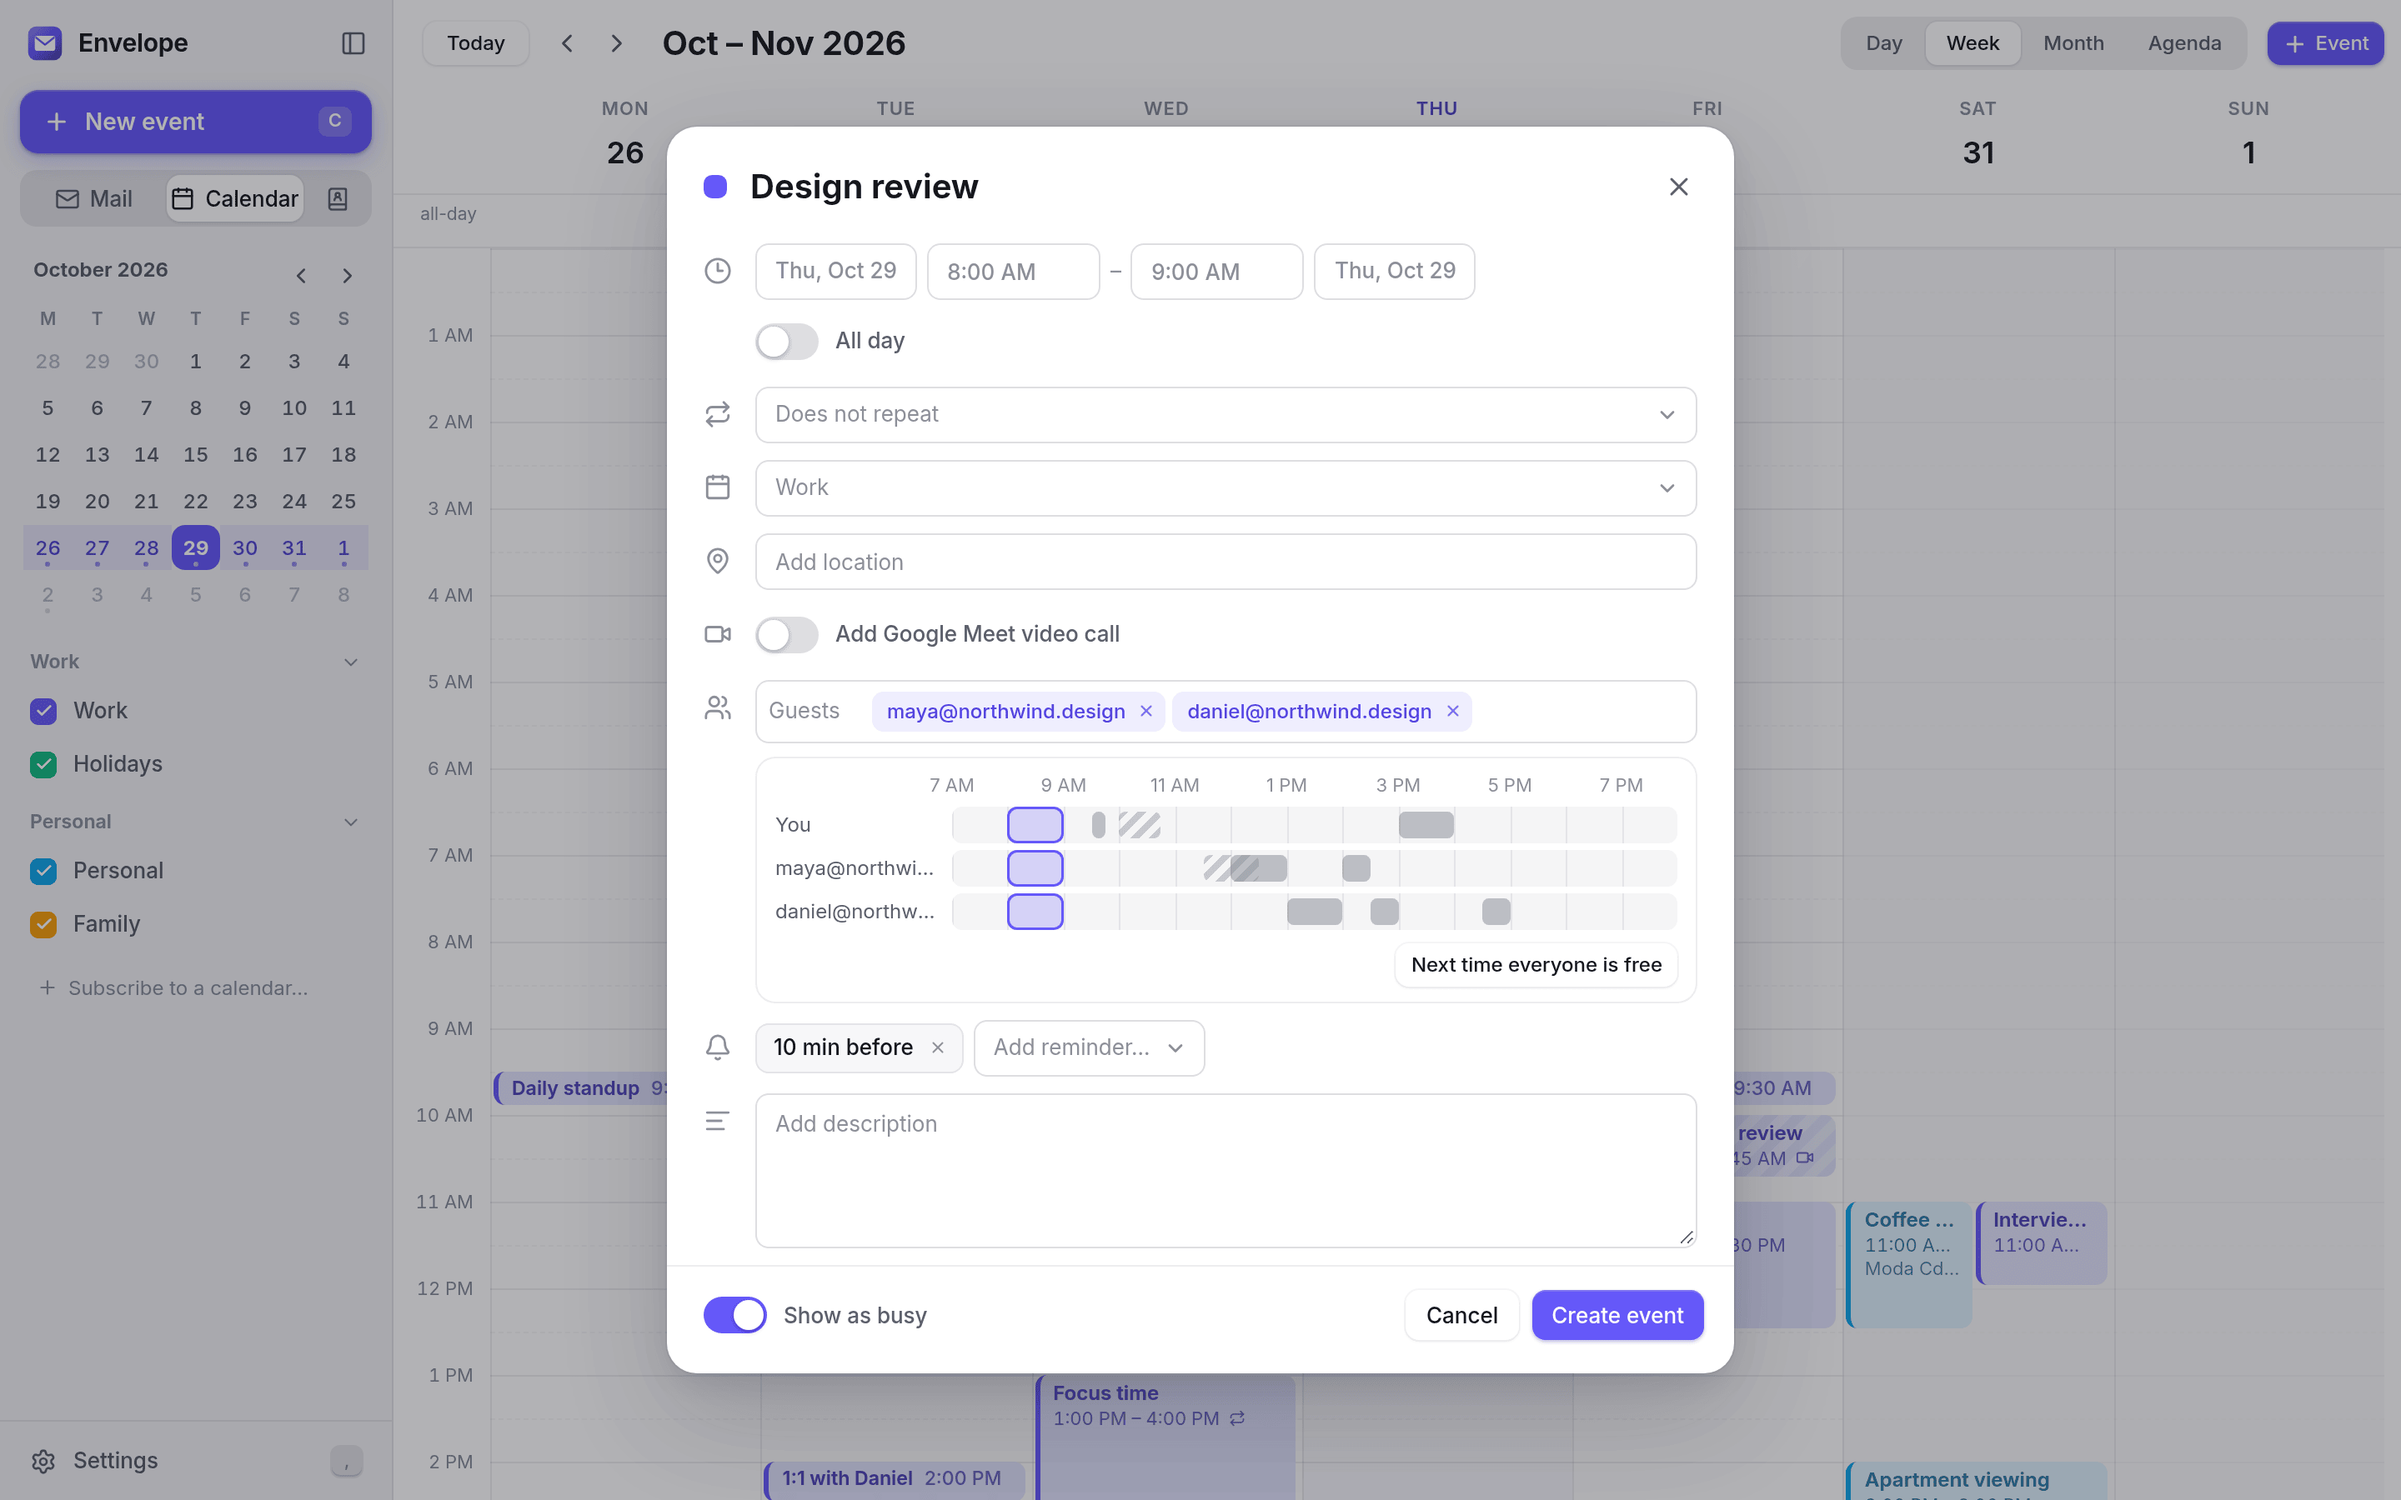
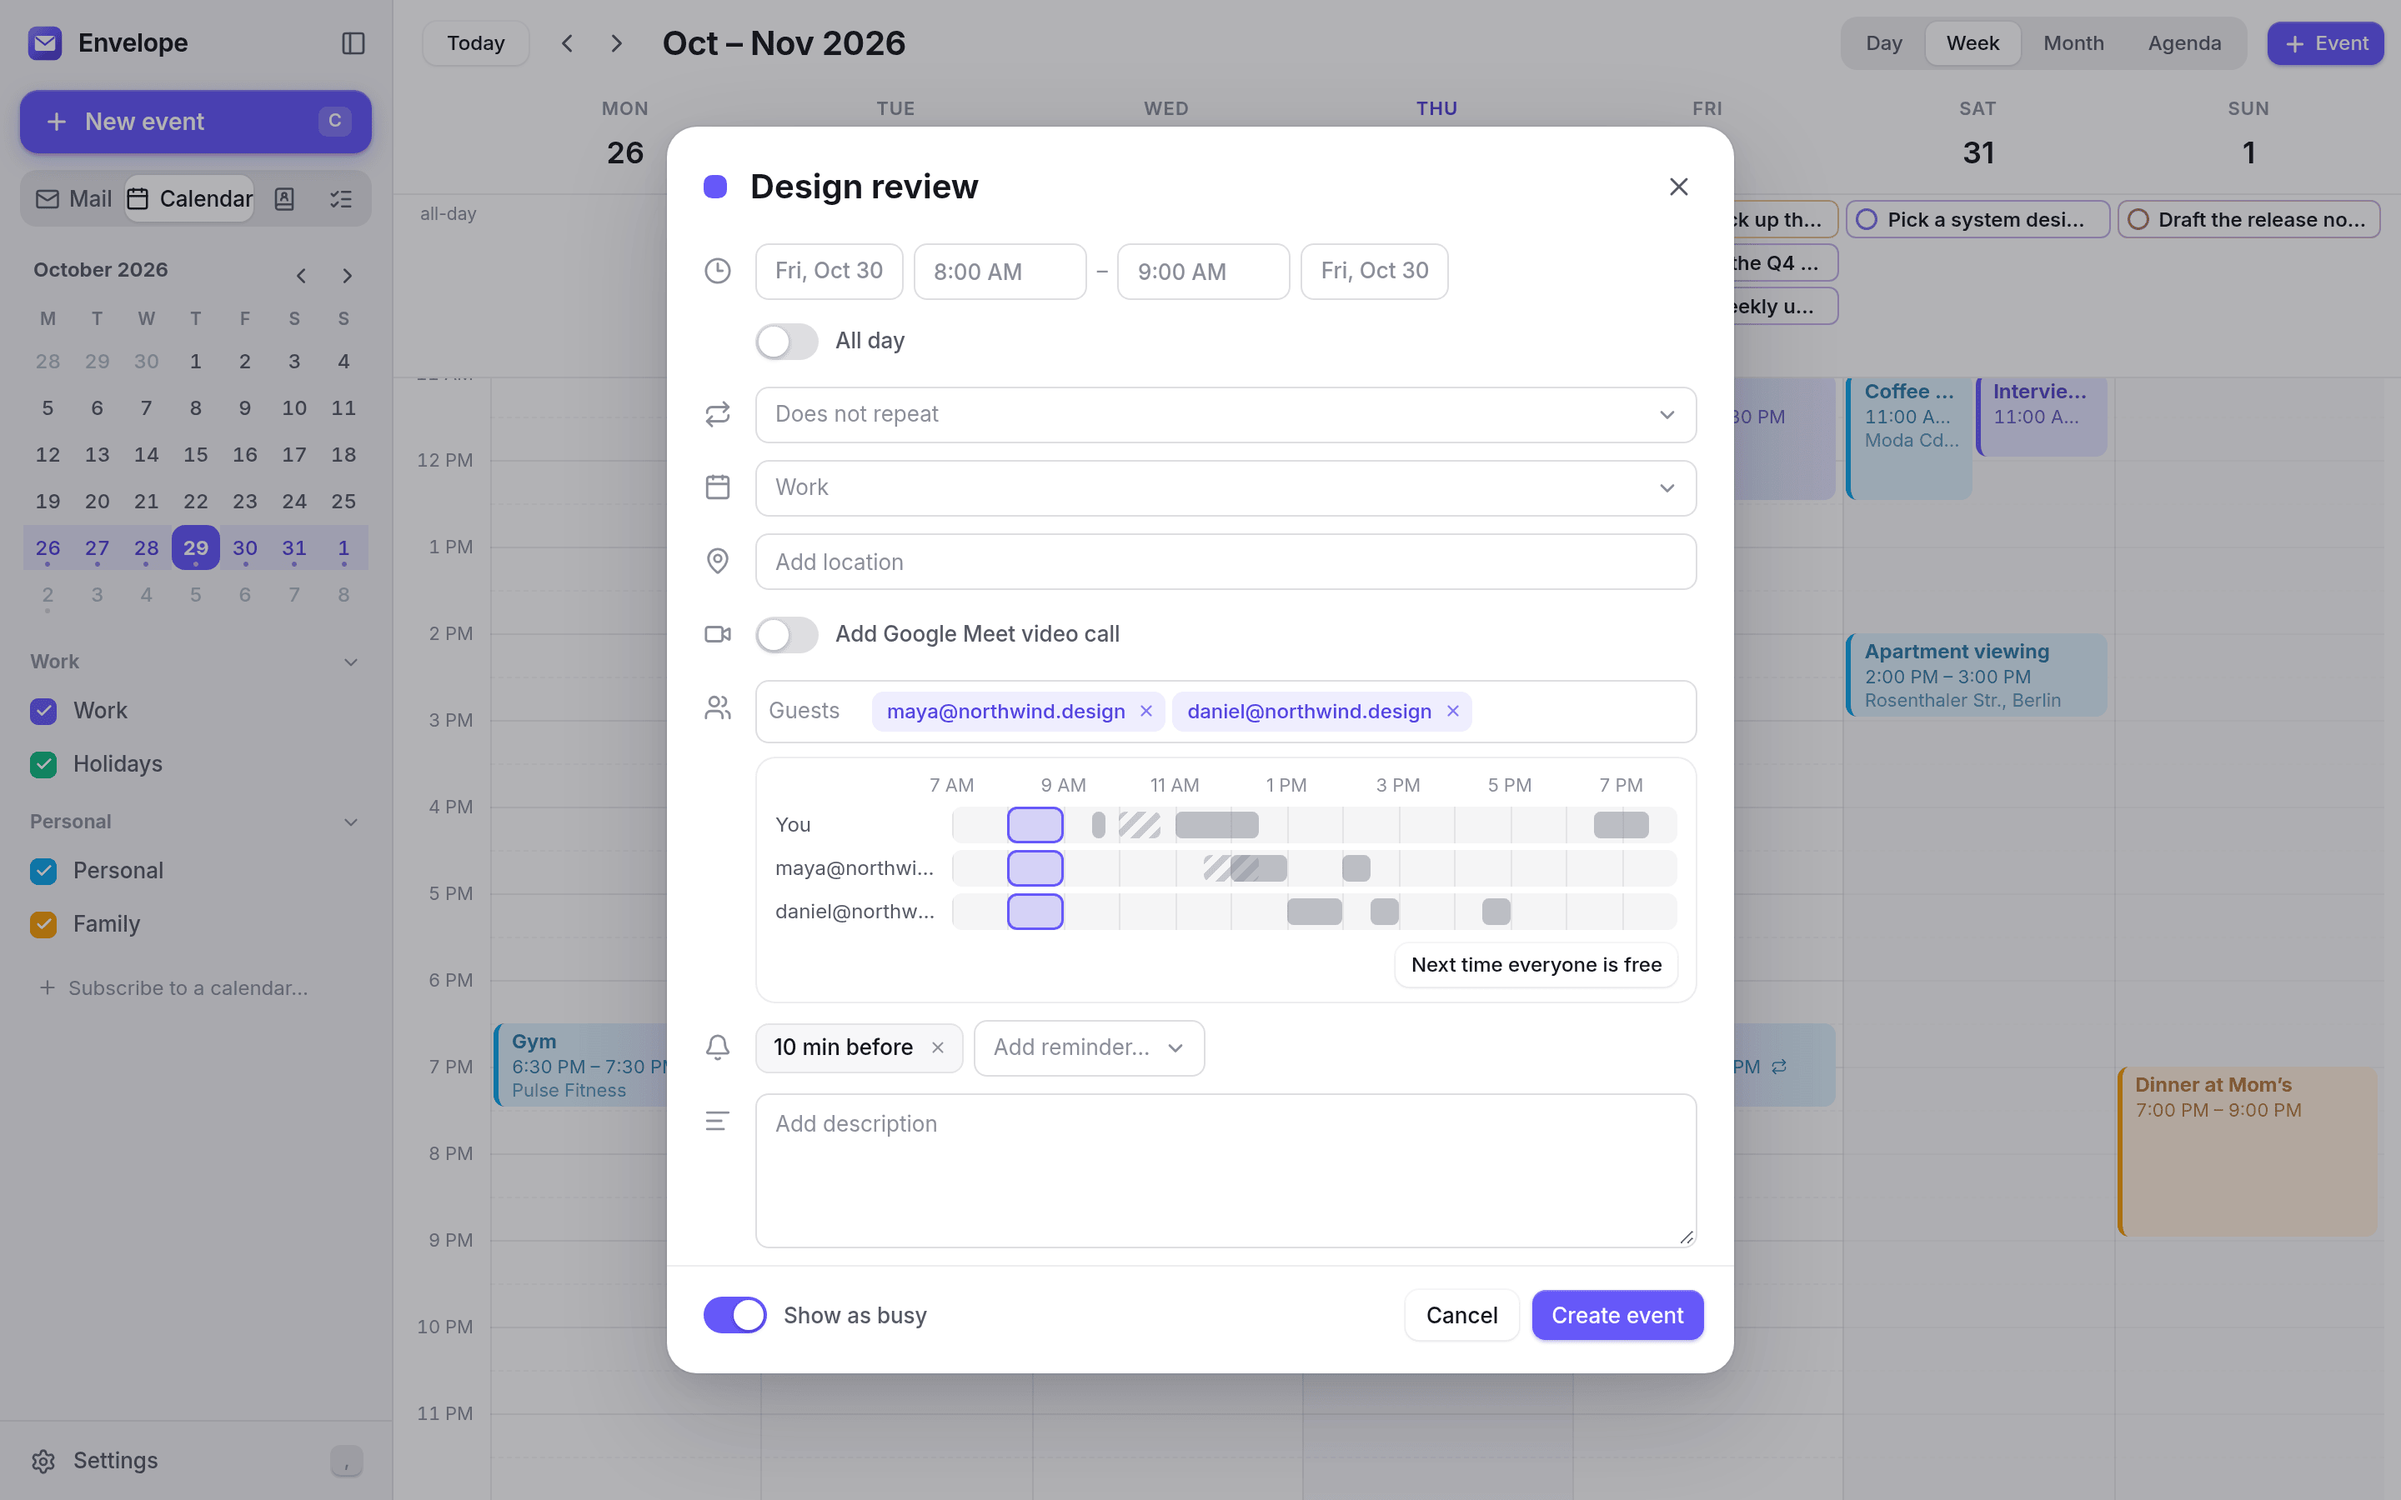
Describe tasks and refresh the screenshots

diff --git a/README.md b/README.md
@@ -6,7 +6,7 @@
 
 **A fast, beautiful mail and calendar client for Linux.**
 
-Gmail, Microsoft 365, Outlook.com, Exchange, iCloud, Yahoo, Fastmail and any IMAP server — with a real calendar,<br>
+Gmail, Microsoft 365, Outlook.com, Exchange, iCloud, Yahoo, Fastmail and any IMAP server — with a real calendar, tasks,<br>
 instant offline search, a keyboard-first workflow and optional AI that runs on the provider *you* choose.
 
 [![CI](https://github.com/burakgon/envelope/actions/workflows/ci.yml/badge.svg)](https://github.com/burakgon/envelope/actions/workflows/ci.yml)
@@ -32,6 +32,7 @@ Desktop mail on Linux has long meant choosing between powerful-but-dated and pre
 - **Instant.** Lists are read from a local database with precomputed thread aggregates, so opening a folder, switching tabs and searching take milliseconds — online or offline. Every action is optimistic and queued, so the UI never waits for the server.
 - **Keyboard-first.** Gmail-style shortcuts (`j`/`k`, `e`, `#`, `r`, `c`, `g i` …) and a command palette (`Ctrl K`) that can do everything the mouse can.
 - **A real calendar.** Day, week, month and agenda views, drag to create, move and resize, recurring events with "this / following / all" edits, invitations with RSVP and conflict detection, a scheduling assistant, subscriptions and reminders — synced both ways with CalDAV, Google Calendar, Microsoft 365 and Exchange.
+- **Tasks where your mail is.** Turn a message into a task with one key, type "call Maya tomorrow 3pm !" and get a due time and a star, and see what's due in your calendar — synced with Google Tasks, Microsoft To Do, Exchange and CalDAV.
 - **Private by design.** No telemetry, no proxy servers, no account with us. Your mail goes straight from your provider to your disk. Remote images and trackers are blocked until you allow them, messages render in a locked-down sandbox, and OpenPGP encryption sets itself up with Autocrypt.
 - **AI you control.** Summaries, smart replies, writing help, translation and "ask your inbox" — using OpenRouter, OpenAI, Anthropic, Google Gemini, Groq, Mistral, a local Ollama or LM Studio model, or any OpenAI-compatible endpoint. Off until you turn it on, and your API keys live in the system keyring.
 
@@ -45,6 +46,10 @@ Desktop mail on Linux has long meant choosing between powerful-but-dated and pre
 <tr>
 <td width="50%"><img src="docs/screenshots/calendar-week.png" alt="Week view of the calendar"></td>
 <td width="50%"><img src="docs/screenshots/calendar-month.png" alt="Month view of the calendar in dark mode"></td>
+</tr>
+<tr>
+<td width="50%"><img src="docs/screenshots/tasks.png" alt="Tasks due today, with one open beside them: its subtasks and the e-mail it was made from"></td>
+<td width="50%"><img src="docs/screenshots/tasks-upcoming.png" alt="Upcoming tasks in dark mode, with quick add turning &quot;friday 10am !&quot; into a due time and a star"></td>
 </tr>
 <tr>
 <td width="50%"><img src="docs/screenshots/scheduling.png" alt="The event editor showing when the guests are busy, with a button for the next time everyone is free"></td>
@@ -89,6 +94,13 @@ Desktop mail on Linux has long meant choosing between powerful-but-dated and pre
 - Invitations in mail (iTIP) become cards with **Yes / Maybe / No**, a conflict check against your calendar and replies sent to the organizer.
 - Two-way sync: **CalDAV** (iCloud, Fastmail, Nextcloud, Radicale, …), **Google Calendar**, **Microsoft 365 / Outlook.com** and **on-premises Exchange**.
 - **Subscribe to published calendars** by URL (`webcal:` links included): holidays, sports, school or team calendars, refreshed by themselves.
+
+### Tasks
+- A **Tasks** view with *Today*, *Upcoming*, *Important* and *All*, and the lists of each account: due dates (with a time where the service keeps one), notes, subtasks and importance; repeating tasks from CalDAV servers move on to their next date when you complete them.
+- **Quick add** that understands dates and times in your language — "call Maya tomorrow 3pm !" — and shows what it understood before you press Enter.
+- **From mail:** press `t` on a conversation to make it a task that links back to it.
+- Tasks with a due date appear **in the calendar**, and a notification tells you when one with a time is due.
+- Two-way sync with **Google Tasks**, **Microsoft To Do**, **Exchange** and **CalDAV** servers that keep tasks (Nextcloud, Radicale, …), plus a list on your computer. Keyboard shortcuts throughout (`g k` to get there).
 
 ### Contacts
 - Address books synced both ways with **CardDAV**, **Google Contacts**, **Microsoft 365** and **Exchange**, plus a local address book.

diff --git a/docs/ARCHITECTURE.md b/docs/ARCHITECTURE.md
@@ -22,7 +22,7 @@ Everything the interface shows comes from one SQLite database (`envelope.db` in 
 
 - **Mail:** `accounts`, `folders`, `messages`, `message_folders` (a message can sit in several folders, as with Gmail labels), `threads` and `thread_folders`. Thread rows keep precomputed aggregates (unread count, participants, last date, category), so a message list is one indexed query, even with hundreds of thousands of messages.
 - **Bodies** are compressed with zstd and indexed for full-text search with FTS5.
-- **Calendars and contacts** have their own tables (`calendars`, `events`, `address_books`, `contacts`); OpenPGP keys and per-message encryption state live in `crypto.sql`.
+- **Calendars, contacts and tasks** have their own tables (`calendars`, `events`, `address_books`, `contacts`, `task_lists`, `tasks`); OpenPGP keys and per-message encryption state live in `crypto.sql`.
 - **Schema changes** go in `db/mod.rs`: a list of migrations by version, and a list of columns added to existing tables (checked before they are added).
 
 Attachments and inline pictures are fetched on demand, cached on disk, and served to the interface through the `att://` protocol (`src-tauri/src/protocol.rs`).
@@ -37,13 +37,13 @@ Each account runs its own worker (`sync::run_account`), chosen by kind:
 | Microsoft 365 / Outlook.com | `sync/graph.rs` over `envelope-graph` | Delta queries per folder |
 | Exchange (on-premises) | `sync/ews.rs` over `envelope-ews` | `SyncFolderItems`, with streaming notifications for push |
 
-Calendars (`sync/calendar.rs`: CalDAV, Google, Graph, EWS), contacts (`sync/contacts.rs`: CardDAV, Google People, Graph, EWS) and subscribed calendars (`sync/subscriptions.rs`) sync alongside. The outbox (`sync/outbox.rs`) sends queued mail when its undo delay or scheduled time has passed. A housekeeping loop brings snoozed conversations back and raises follow-up reminders.
+Calendars (`sync/calendar.rs`: CalDAV, Google, Graph, EWS), contacts (`sync/contacts.rs`: CardDAV, Google People, Graph, EWS), tasks (`sync/tasks/`: one `TaskService` per kind of server — CalDAV, Google Tasks, Microsoft To Do, EWS) and subscribed calendars (`sync/subscriptions.rs`) sync alongside. The outbox (`sync/outbox.rs`) sends queued mail when its undo delay or scheduled time has passed. A housekeeping loop brings snoozed conversations back and raises follow-up reminders.
 
 New mail runs through the user's rules (`rules.rs`) before anything is notified; replies in muted conversations skip the inbox there too.
 
 ## Local first
 
-Every action — archive, move, flag, delete, snooze — changes the database at once and records a **pending operation** for the account's worker to carry out on the server. The interface never waits for the network, and works offline.
+Every action — archive, move, flag, delete, snooze — changes the database at once and records a **pending operation** for the account's worker to carry out on the server. Contacts and tasks work the same way with a per-row `local_state` (created, changed, deleted), keeping the server's copy so that fields Envelope does not edit survive the round trip. The interface never waits for the network, and works offline.
 
 Actions return an **undo token** with the previous state. Undoing within a few seconds simply cancels the operation before it reaches the server; later, it is reverted with a new operation.
 

diff --git a/CHANGELOG.md b/CHANGELOG.md
@@ -4,6 +4,12 @@ All notable changes to Envelope are documented here. The format follows [Keep a 
 
 ## [Unreleased]
 
+### Added
+- Tasks: a Tasks view (`g k`) with Today, Upcoming, Important, All and the lists of each account; due dates and times, notes, subtasks and importance; quick add that understands dates, times and `!` in the interface language; tasks made from conversations (`t`, the reader toolbar or the command palette) that link back to them; tasks with a due date in the calendar (Settings → Calendar); a notification with Mark as Done when a task with a time comes due (Settings → Notifications). Synced both ways with CalDAV servers that keep tasks (Nextcloud, Radicale, …), Google Tasks, Microsoft To Do and Exchange, plus a list on this computer. Google and Microsoft accounts added before need to sign in again (Settings → Accounts) to show their tasks.
+
+### Changed
+- The calendar's all-day row shows "+N more" when a day has more items than fit.
+
 ## [0.2.0] — 2026-10-29
 
 ### Added
